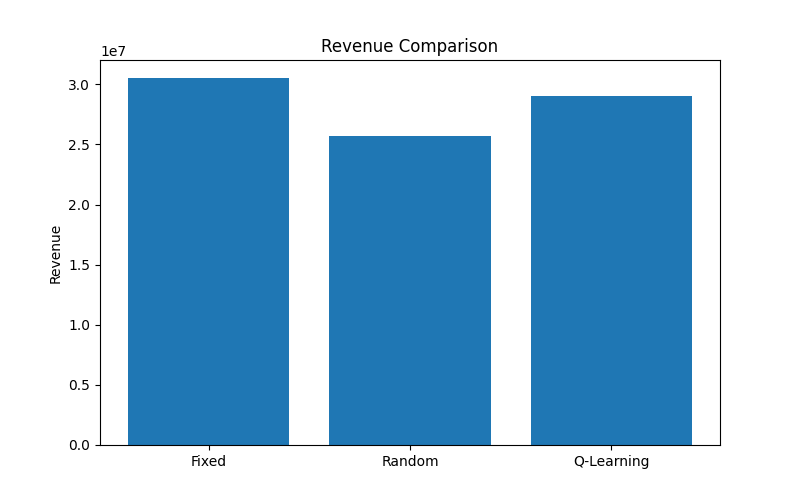
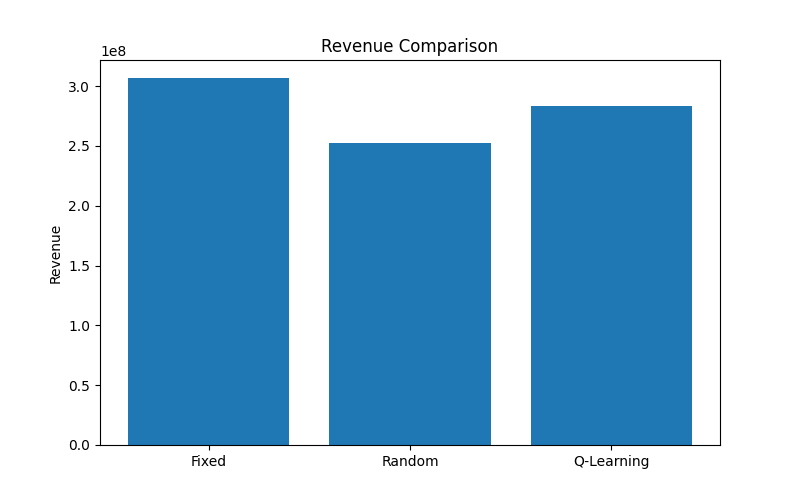
Complete Day 9-10: Demand optimization, competitor pricing and RL improvements

diff --git a/env/pricing_env.py b/env/pricing_env.py
@@ -19,7 +19,9 @@ class PricingEnvironment(gym.Env):
 
         self.inventory = self.max_inventory
         self.days_left = self.max_days
-
+        
+        self.competitor_price = 3000
+         
         # Action Space (5 Price Levels)
         self.action_space = spaces.Discrete(5)
 
@@ -39,6 +41,7 @@ class PricingEnvironment(gym.Env):
 
         self.inventory = self.max_inventory
         self.days_left = self.max_days
+        self.competitor_price = 3000
 
         state = np.array(
             [self.inventory, self.days_left],
@@ -49,7 +52,13 @@ class PricingEnvironment(gym.Env):
 
     def step(self, action):
 
-     price = PRICE_MAP[action]
+     price = PRICE_MAP[action] 
+     
+     import random
+
+     self.competitor_price = random.choice(
+     [2000,2500,3000,3500,4000]
+    )
 
      # Customer Demand
      sold_rooms = customer_demand(action, self.days_left)
@@ -62,6 +71,15 @@ class PricingEnvironment(gym.Env):
      revenue = sold_rooms * price
 
      reward = revenue
+     # Competitor Pricing Effect
+
+     if price > self.competitor_price:
+
+       reward -= 2000
+
+     else:
+
+      reward += 1000
 
      # -----------------------------
      # Reward Engineering
@@ -69,11 +87,16 @@ class PricingEnvironment(gym.Env):
 
      # Bonus if all inventory sold
      if self.inventory == 0:
-        reward += 5000
+        reward += 3000
 
      # Penalty if inventory remains at season end
      if self.days_left == 1 and self.inventory > 0:
         reward -= self.inventory * 500
+     else:
+
+         if self.inventory < 20:
+
+               reward += 2000
 
      # Small penalty for keeping price too high
      if action == 4 and sold_rooms <= 2:

diff --git a/utils/demand.py b/utils/demand.py
@@ -23,15 +23,34 @@ def customer_demand(price_level, days_left):
     else:
         demand = 4
 
-    # Last-minute bookings
+    # ----------------------------
+    # Peak Season
+    # ----------------------------
+    if 10 <= days_left <= 20:
+        demand += 5
+
+    # ----------------------------
+    # Weekend Rush
+    # Every 7th day
+    # ----------------------------
+    if days_left % 7 == 0:
+        demand += 3
+
+    # ----------------------------
+    # Last Minute Booking
+    # ----------------------------
     if days_left <= 5:
         demand += random.randint(3, 7)
 
-    # Early booking period
+    # ----------------------------
+    # Early Booking
+    # ----------------------------
     elif days_left >= 20:
         demand += random.randint(-2, 2)
 
-    # Normal booking period
+    # ----------------------------
+    # Normal Days
+    # ----------------------------
     else:
         demand += random.randint(-1, 3)
 

diff --git a/agents/q_learning.py b/agents/q_learning.py
@@ -10,14 +10,12 @@ class QLearningAgent:
     def __init__(self):
 
         # Learning Parameters
-        self.learning_rate = 0.1
-        self.discount_factor = 0.95
+        self.learning_rate = 0.2
+        self.discount_factor = 0.99
 
-        # Exploration Parameters
         self.epsilon = 1.0
-        self.epsilon_decay = 0.995
-        self.min_epsilon = 0.01
-
+        self.epsilon_decay = 0.998
+        self.min_epsilon = 0.05
         # Q-Table
         self.q_table = {}
 

diff --git a/evaluation.py b/evaluation.py
@@ -20,7 +20,7 @@ fixed_total = 0
 random_total = 0
 qlearning_total = 0
 
-episodes = 100
+episodes = 1000
 
 # -------------------------
 # Fixed Pricing Strategy

diff --git a/train.py b/train.py
@@ -11,7 +11,7 @@ env = PricingEnvironment()
 
 agent = QLearningAgent()
 
-episodes = 1000
+episodes = 5000
 
 reward_history = []
 
